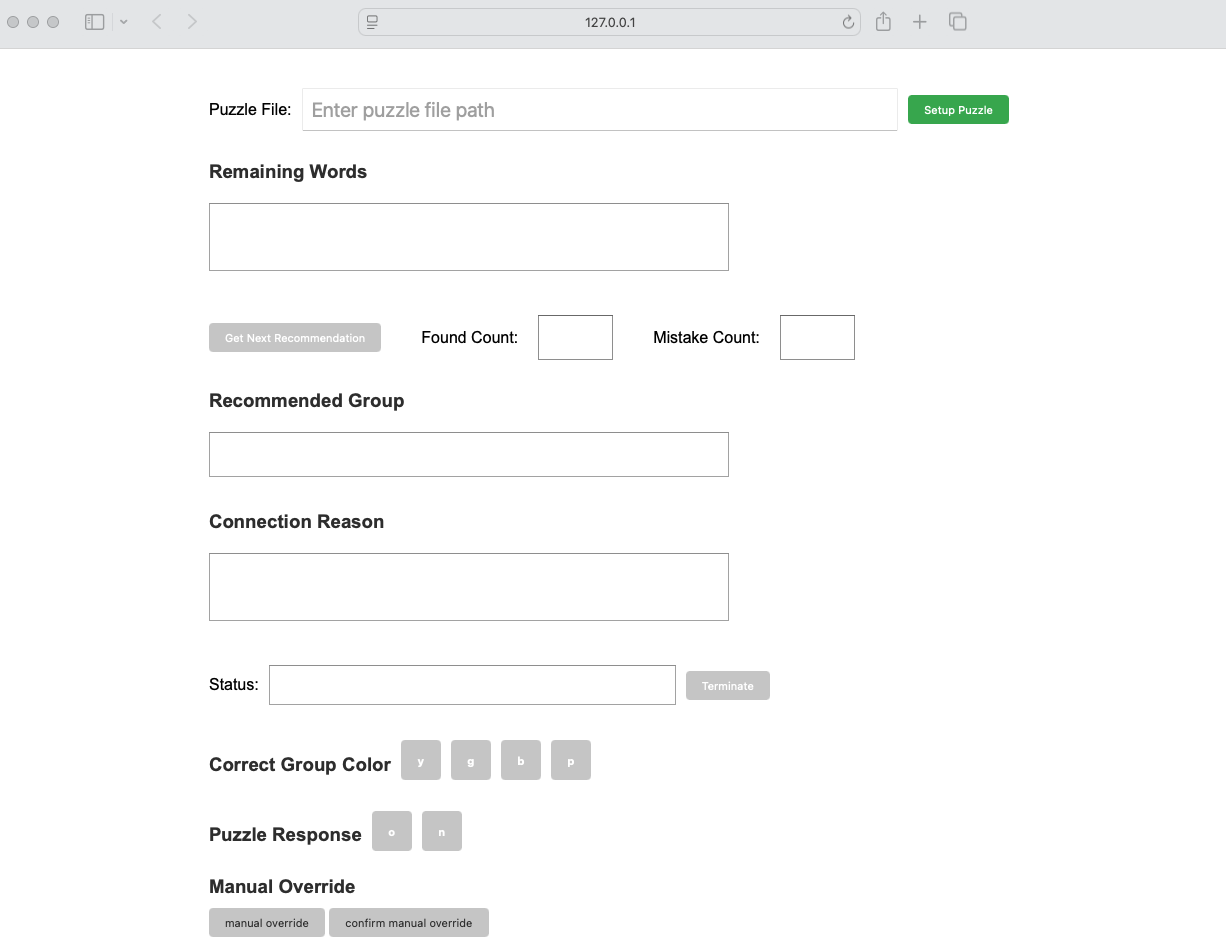
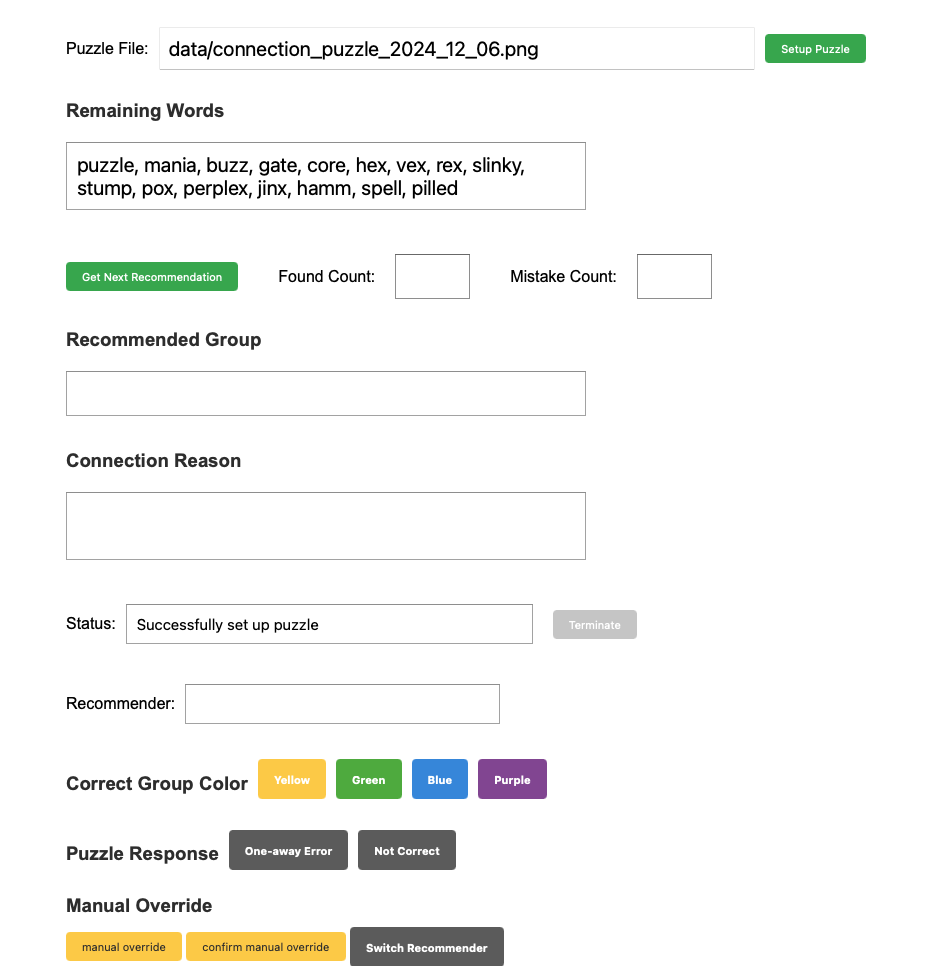
doc: update webui screenshots

diff --git a/README.md b/README.md
@@ -472,13 +472,22 @@ The agent's workflow was converted to a web-based interface using `Quart`.  The 
 
 ![](./images/webui1.png)
 
-**Interface during the solving process**
+**Generating First Recommendation**
 
 ![](./images/webui2.png)
 
-**Interface after the puzzle is solved**
+**Accepting First Recommendation**
 
 ![](./images/webui3.png)
+
+**Generating Third Recommendation**
+
+![](./images/webui4.png)
+
+**Solved Puzzle**
+
+![](./images/webui5.png)
+
 
 ## Agentic Virtual Assistant Software Components
 The Connections Puzzle Agentic Virtual Assistant is composed of several software components that work together to solve the Connections Puzzle. Here is an overview of the main components:
